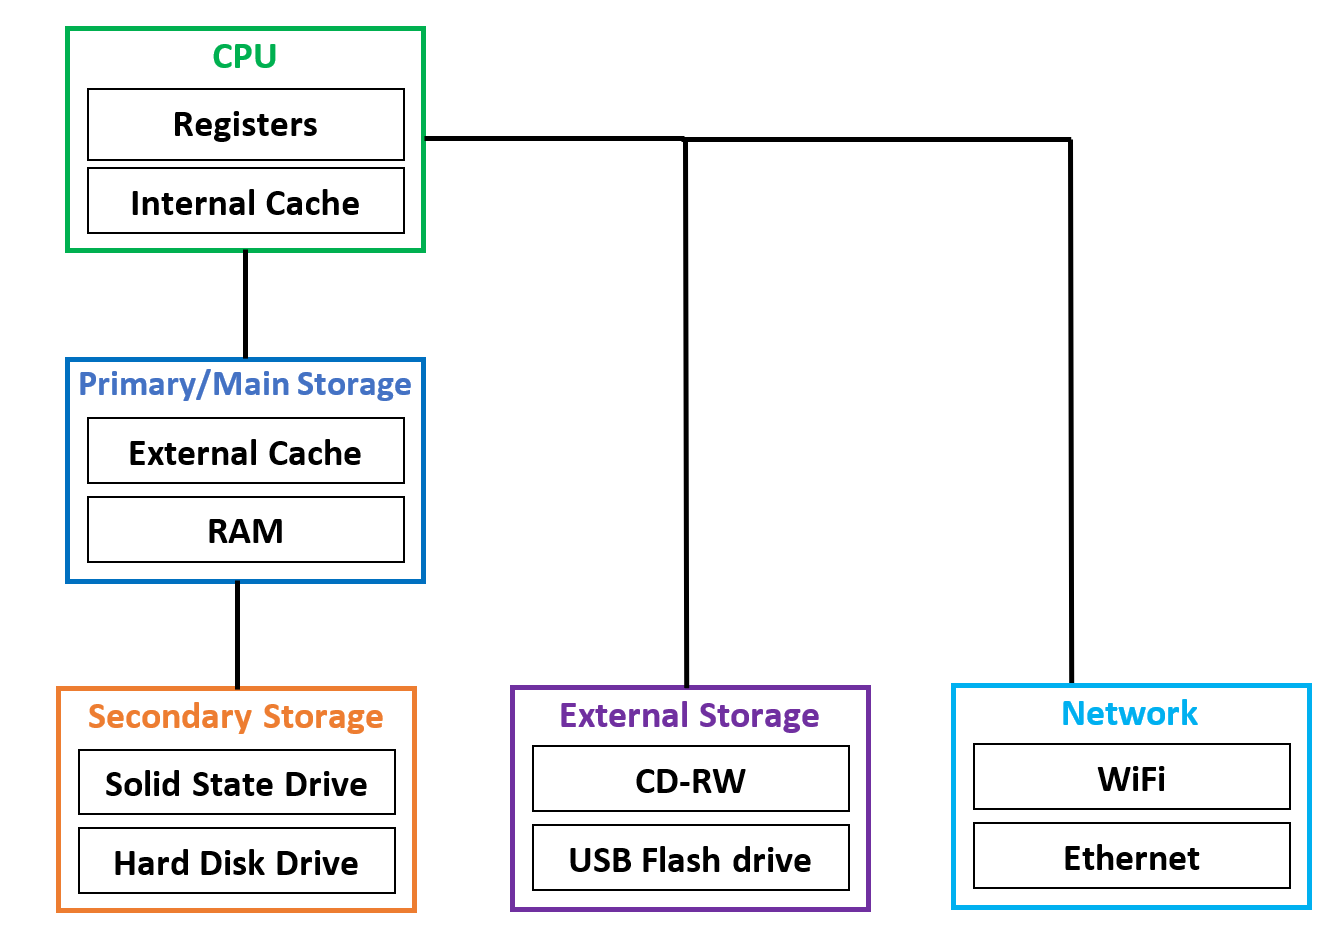
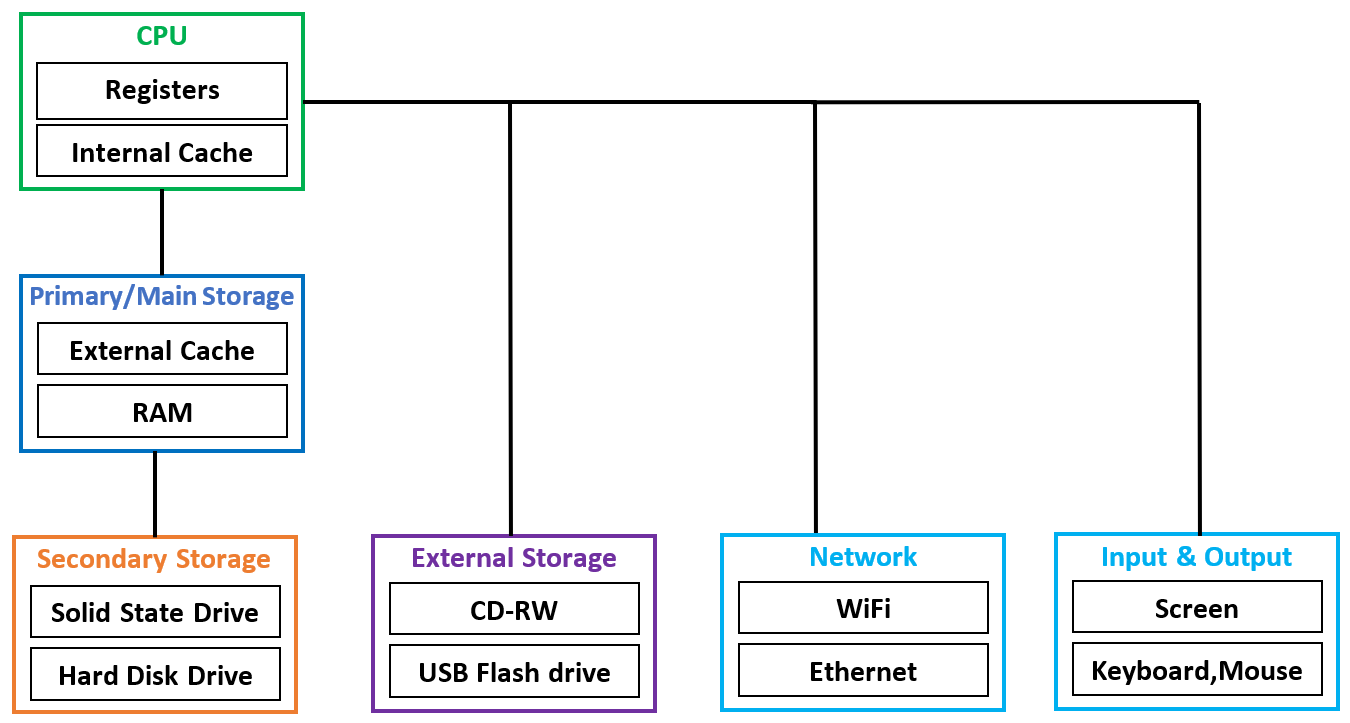
update

Changed region(s): [[0.0, 0.0, 1.0, 1.0]]

diff --git a/html/ML-Course-4.html b/html/ML-Course-4.html
@@ -241,7 +241,7 @@ pip install package_name</pre>
 
 		
 	
-	<br><h2>For Nerds and Geeks</h2>
+	<br><h2>For Nerds and Geeks - Computer Hardware Architecture</h2>
 		<hr>	<p class="normal">	
 		Before we start learning the Python programming language to give instructions to computers, 
 		let's have a sneak peek of how computers are built. If you were to rip off a computer or cell phone and look deep inside, 
@@ -255,8 +255,9 @@ pip install package_name</pre>
 			<br><li><code class="style"><b>Secondary Memory</b></code> is also used to store information, but it is much slower than the main memory. 
 			<b>Data and program files are usually stored in Hard Disk</b>. 
 			The advantage of the secondary memory is that it can store information even when there is no power to the computer and are usually cheaper than RAM & offer more storage space.</li>
-			<br><li><code class="style"><b>Network</b></code> most computers also have a Network Connection to retrieve information over a network. We can think of the network as a very slow place to store and retrieve data that might not always be "up". So in a sense, the network is a slower and at times unreliable form of Secondary Memory</li>
-			
+			<br><li><code class="style"><b>Network Connection</b></code> is used to retrieve information over internet or intranet. We can think of the network as a very slow place to store and retrieve data that might not always be "up". So in a sense, the network is a slower and at times unreliable form of Secondary Memory.
+			However, the recent advancements in fibre optics enabled widespread access to network speed of 1 Gbps & more. Transferring data between the servers will be atleast 100MB/s and will be faster than USB3.0.
+			</li>
 			<br><li><code class="style"><b>Input & Output devices</b></code> are simply our screen, keyboard, mouse, microphone, speaker, touchpad, etc. They are all of the ways we interact with the computer.</li>
 			</ul>
 		</p> 
